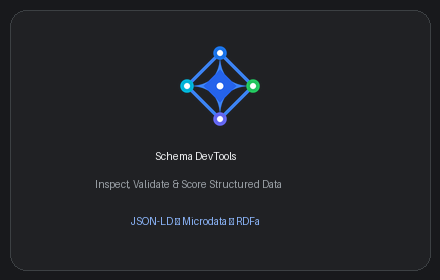
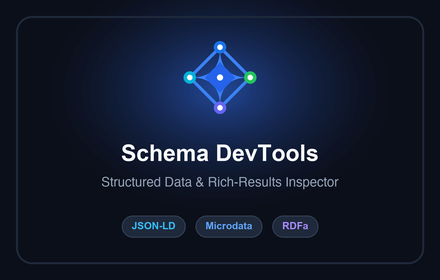
docs(store): improve 440x280 promo tile with typography and radial glow

diff --git a/scripts/prepare-store-screenshots.py b/scripts/prepare-store-screenshots.py
@@ -1,5 +1,5 @@
 from pathlib import Path
-from PIL import Image, ImageOps, ImageDraw
+from PIL import Image, ImageOps, ImageDraw, ImageFont
 
 assets_dir = Path(__file__).parent.parent / 'assets'
 store_dir = assets_dir / 'store'
@@ -34,22 +34,83 @@ for out_name, in_path in screenshots:
     canvas.save(out_path, quality=95)
     print(f'Generated {out_path.name} ({canvas.size[0]}x{canvas.size[1]})')
 
-# 2. 440x280 Small Promo Tile
-pw, ph = 440, 280
-promo = Image.new('RGB', (pw, ph), (24, 25, 28))
-pdraw = ImageDraw.Draw(promo)
-pdraw.rounded_rectangle([10, 10, pw - 10, ph - 10], radius=16, fill=(32, 33, 36), outline=(60, 64, 67), width=1)
+# 2. 440x280 Small Promo Tile (4x Supersampled for ultra-crisp typography)
+scale = 4
+W, H = 440 * scale, 280 * scale
 
+canvas = Image.new('RGB', (W, H), (11, 15, 25))
+draw = ImageDraw.Draw(canvas)
+
+# Radial blue glow behind emblem
+cx, cy_glow = W // 2, int(H * 0.32)
+for r in range(int(W * 0.45), 0, -8):
+    alpha = int(35 * (1 - r / (W * 0.45))**1.8)
+    col = (11 + int(24 * alpha / 35), 15 + int(58 * alpha / 35), 25 + int(130 * alpha / 35))
+    draw.ellipse([cx - r, cy_glow - int(r * 0.7), cx + r, cy_glow + int(r * 0.7)], fill=col)
+
+# Outer glass card border
+draw.rounded_rectangle([16 * scale, 16 * scale, W - 16 * scale, H - 16 * scale], radius=16 * scale, outline=(30, 41, 59), width=2 * scale)
+
+# Vector emblem
 icon_path = icons_dir / 'icon-512.png'
 if icon_path.exists():
     icon = Image.open(icon_path).convert('RGBA')
-    icon_resized = icon.resize((96, 96), Image.Resampling.LANCZOS)
-    promo.paste(icon_resized, ((pw - 96) // 2, 38), icon_resized)
+    icon_size = 88 * scale
+    icon_resized = icon.resize((icon_size, icon_size), Image.Resampling.LANCZOS)
+    canvas.paste(icon_resized, ((W - icon_size) // 2, int(H * 0.12)), icon_resized)
 
-pdraw.text(((pw - 130) // 2, 150), 'Schema DevTools', fill=(241, 243, 244))
-pdraw.text(((pw - 250) // 2, 178), 'Inspect, Validate & Score Structured Data', fill=(154, 160, 166))
-pdraw.text(((pw - 180) // 2, 215), 'JSON-LD • Microdata • RDFa', fill=(138, 180, 248))
+# Typography fonts
+font_candidates_bold = ['/System/Library/Fonts/Supplemental/Arial Bold.ttf', '/Library/Fonts/Arial Bold.ttf']
+font_candidates_reg = ['/System/Library/Fonts/Helvetica.ttc', '/System/Library/Fonts/Supplemental/Arial.ttf']
 
-promo_path = store_dir / 'promo-small-440x280.png'
-promo.save(promo_path, quality=95)
-print(f'Generated {promo_path.name} ({promo.size[0]}x{promo.size[1]})')
+def load_font(candidates, size):
+    for c in candidates:
+        if Path(c).exists():
+            return ImageFont.truetype(c, size)
+    return ImageFont.load_default()
+
+font_bold = load_font(font_candidates_bold, 23 * scale)
+font_regular = load_font(font_candidates_reg, 13 * scale)
+font_chip = load_font(font_candidates_bold, 10 * scale)
+
+# Title
+title = 'Schema DevTools'
+tb = draw.textbbox((0, 0), title, font=font_bold)
+draw.text(((W - (tb[2] - tb[0])) // 2, int(H * 0.50)), title, fill=(248, 250, 252), font=font_bold)
+
+# Subtitle
+sub = 'Structured Data & Rich-Results Inspector'
+sb = draw.textbbox((0, 0), sub, font=font_regular)
+draw.text(((W - (sb[2] - sb[0])) // 2, int(H * 0.63)), sub, fill=(148, 163, 184), font=font_regular)
+
+# Pill Chips
+chips = ['JSON-LD', 'Microdata', 'RDFa']
+chip_colors = [
+    ((56, 189, 248), (14, 116, 144, 60)),
+    ((96, 165, 250), (30, 58, 138, 60)),
+    ((167, 139, 250), (88, 28, 135, 60)),
+]
+
+chip_y = int(H * 0.77)
+chip_h = 22 * scale
+chip_widths = []
+
+for text in chips:
+    cb = draw.textbbox((0, 0), text, font=font_chip)
+    cw = (cb[2] - cb[0]) + 20 * scale
+    chip_widths.append((text, cw, cb[2] - cb[0]))
+
+gap = 10 * scale
+total_w = sum(cw for _, cw, _ in chip_widths) + gap * (len(chips) - 1)
+curr_x = (W - total_w) // 2
+
+for idx, (text, cw, text_w) in enumerate(chip_widths):
+    fg, _ = chip_colors[idx]
+    draw.rounded_rectangle([curr_x, chip_y, curr_x + cw, chip_y + chip_h], radius=chip_h // 2, fill=(30, 41, 59), outline=(51, 65, 85), width=1 * scale)
+    draw.text((curr_x + (cw - text_w) // 2, chip_y + int(4.5 * scale)), text, fill=fg, font=font_chip)
+    curr_x += cw + gap
+
+final_promo = canvas.resize((440, 280), Image.Resampling.LANCZOS)
+promo_dest = store_dir / 'promo-small-440x280.png'
+final_promo.save(promo_dest, quality=98)
+print(f'Generated {promo_dest.name} ({final_promo.size[0]}x{final_promo.size[1]})')
